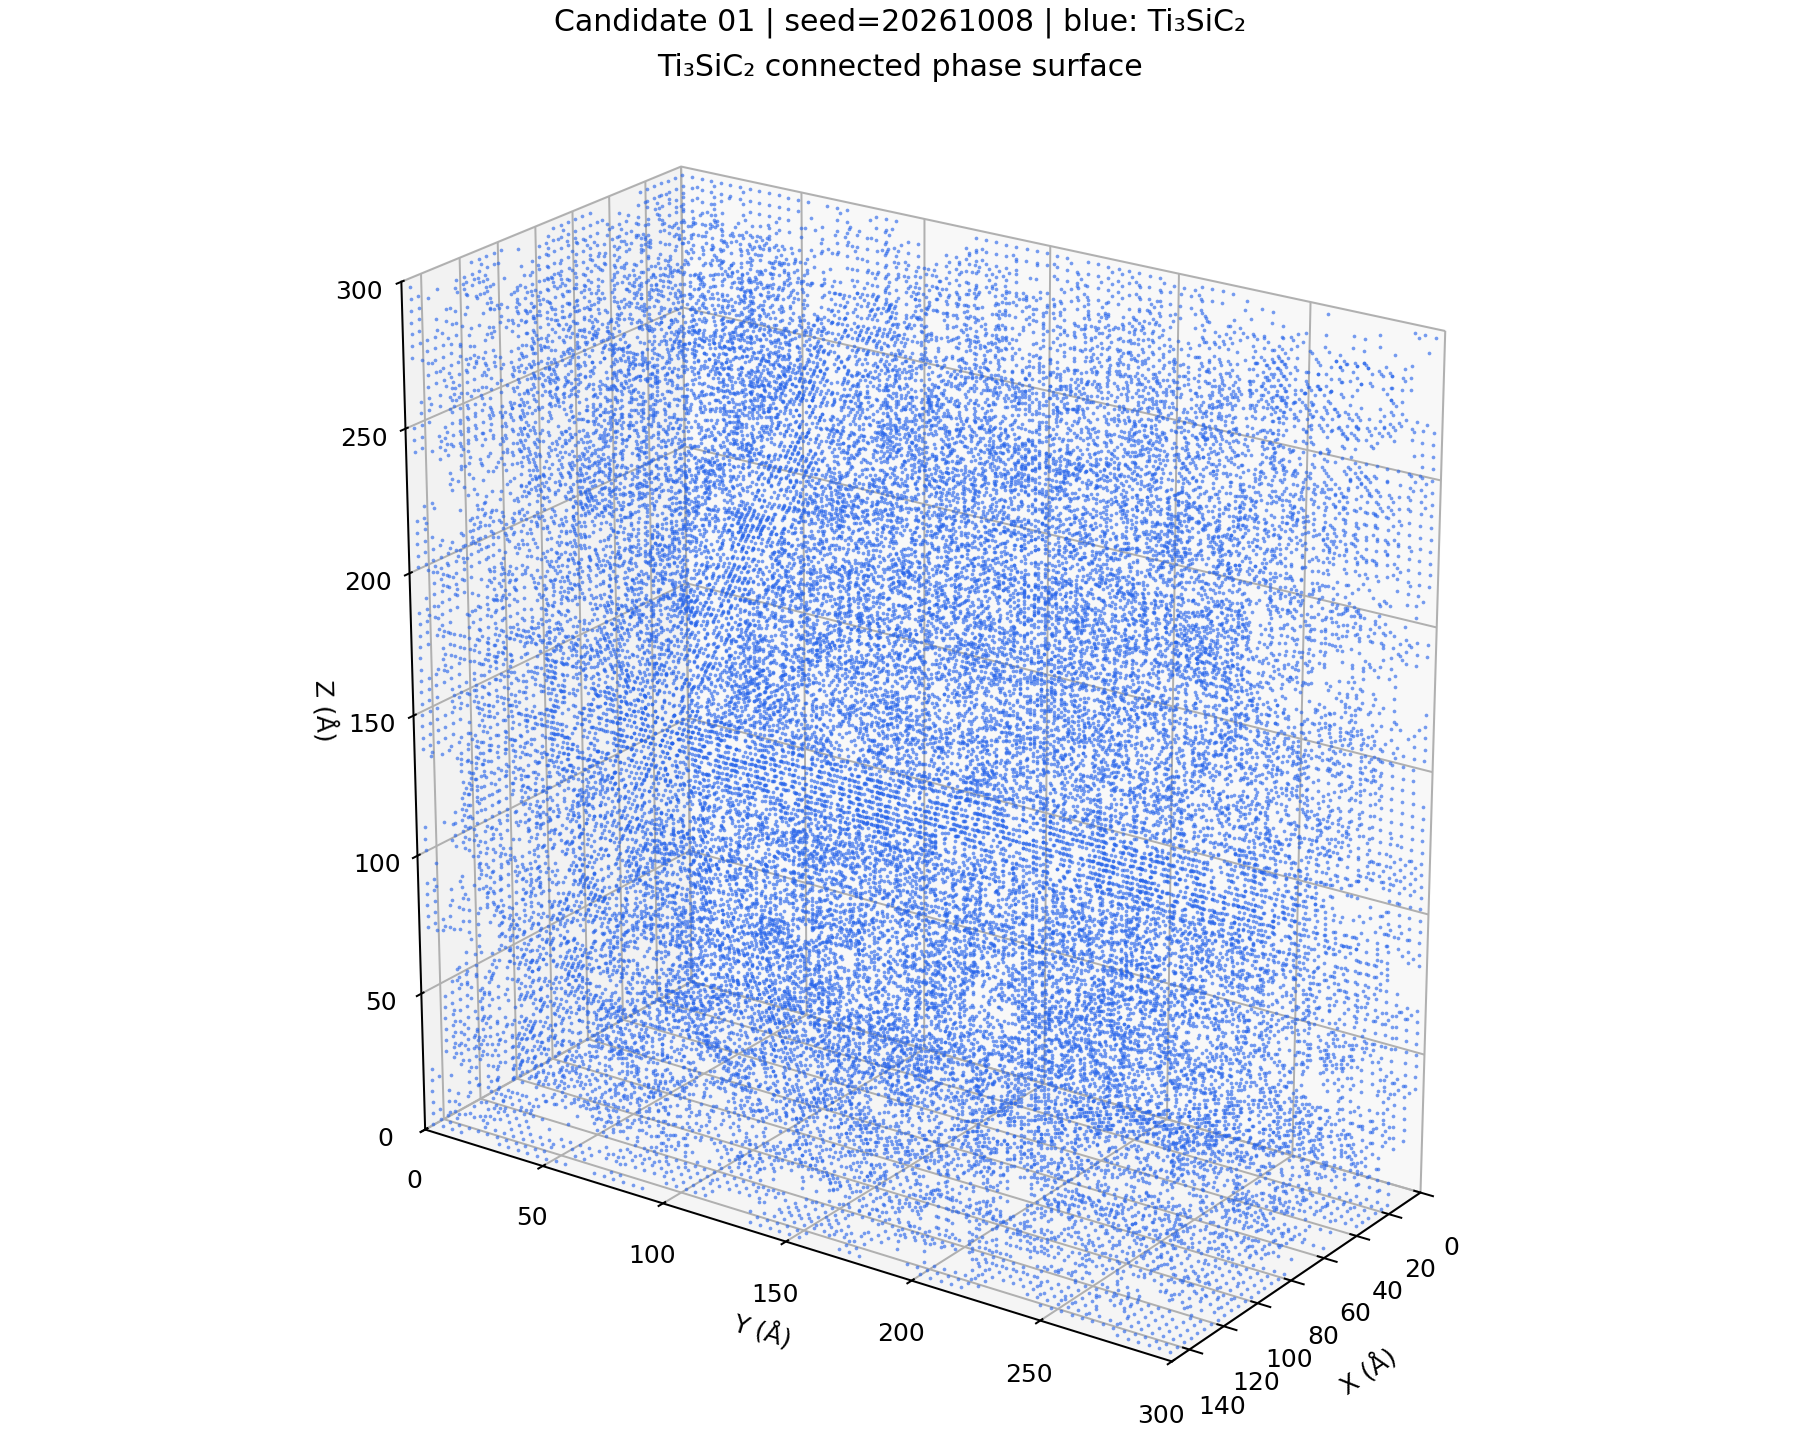
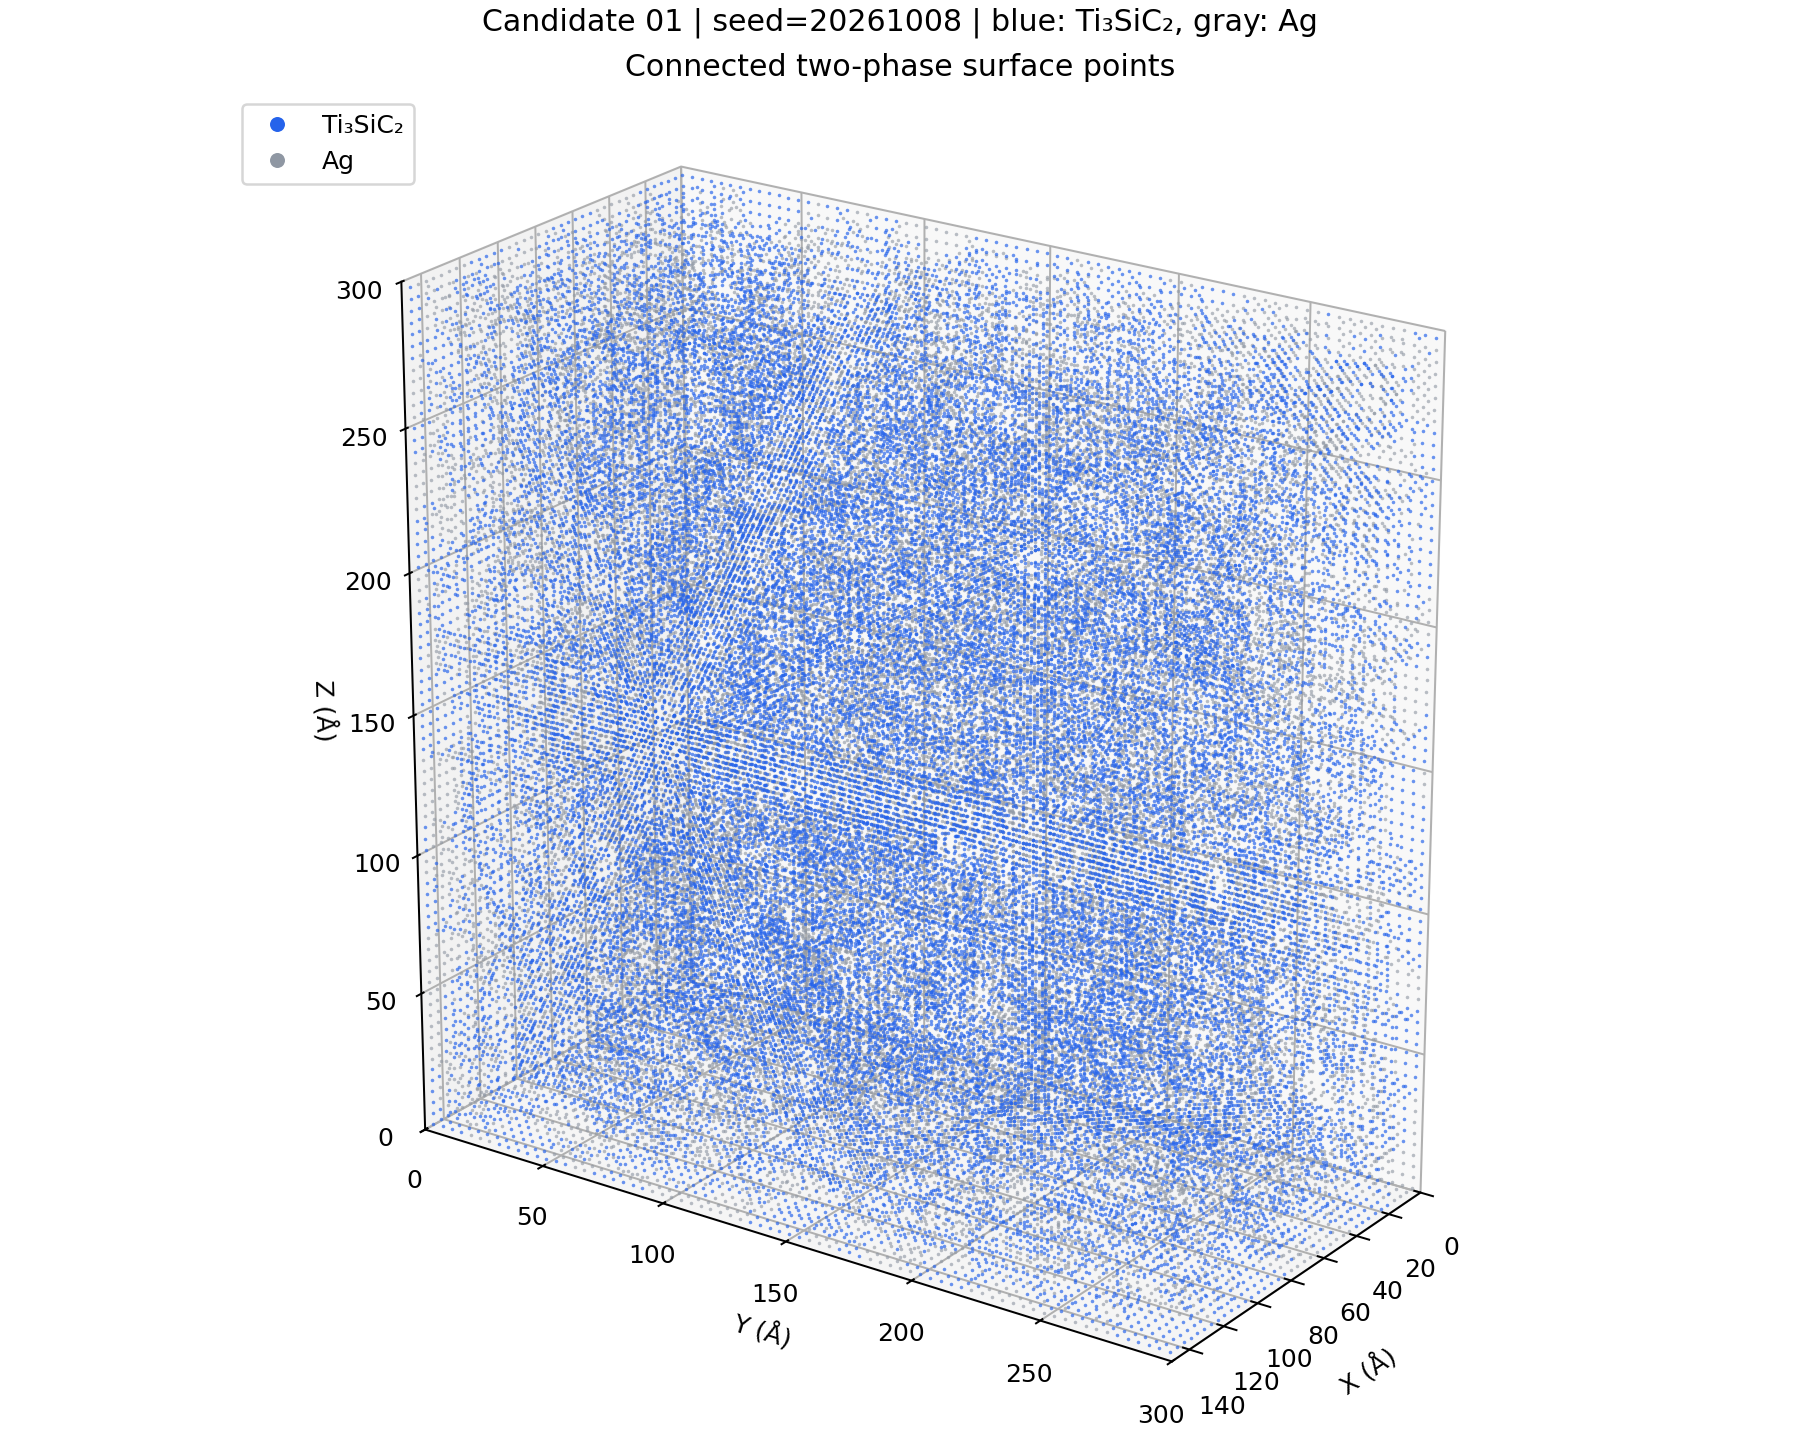
Render Ag phase in 3D candidate views

Changed region(s): [[0.2489, 0.1562, 0.7778, 0.9062], [0.28, 0.0, 0.7467, 0.0625], [0.1244, 0.0625, 0.2178, 0.125]]

diff --git a/phasefield_geometry_Ag_Ti3SiC2_300x300/generate_geometry.py b/phasefield_geometry_Ag_Ti3SiC2_300x300/generate_geometry.py
@@ -14,6 +14,7 @@ from pathlib import Path
 import matplotlib
 matplotlib.use("Agg")
 import matplotlib.pyplot as plt
+from matplotlib.lines import Line2D
 from matplotlib.colors import ListedColormap
 import numpy as np
 import scipy
@@ -111,16 +112,24 @@ def render_candidate(mask: np.ndarray, candidate_dir: Path, candidate_no: int, s
     colors = ListedColormap(["#d2d4d8", "#2563eb"])  # Ag, Ti3SiC2
     fig = plt.figure(figsize=(15, 10), constrained_layout=True)
     ax3 = fig.add_subplot(2, 2, 1, projection="3d")
-    surface = mask & ~ndi.binary_erosion(
-        mask, structure=ndi.generate_binary_structure(3, 1), border_value=0
-    )
     step = 2
-    sampled = surface[::step, ::step, ::step]
-    ix, iy, iz = np.nonzero(sampled)
-    ax3.scatter((ix + 0.5) * SPACING_A[0] * step,
-                (iy + 0.5) * SPACING_A[1] * step,
-                (iz + 0.5) * SPACING_A[2] * step,
-                c="#2563eb", s=1.8, alpha=0.7, linewidths=0, depthshade=False)
+    surface_structure = ndi.generate_binary_structure(3, 1)
+    tic_surface = mask & ~ndi.binary_erosion(mask, structure=surface_structure, border_value=0)
+    ag_mask = ~mask
+    ag_surface = ag_mask & ~ndi.binary_erosion(ag_mask, structure=surface_structure, border_value=0)
+    tic_ix, tic_iy, tic_iz = np.nonzero(tic_surface[::step, ::step, ::step])
+    ag_ix, ag_iy, ag_iz = np.nonzero(ag_surface[::step, ::step, ::step])
+
+    def scatter_phase_surface(ax, ix, iy, iz, color, size, alpha):
+        ax.scatter((ix + 0.5) * SPACING_A[0] * step,
+                   (iy + 0.5) * SPACING_A[1] * step,
+                   (iz + 0.5) * SPACING_A[2] * step,
+                   c=color, s=size, alpha=alpha, linewidths=0, depthshade=False)
+
+    # Draw Ti first and the more opaque gray Ag points last so both
+    # complementary phase boundaries remain legible in the static view.
+    scatter_phase_surface(ax3, tic_ix, tic_iy, tic_iz, "#2563eb", 1.8, 0.68)
+    scatter_phase_surface(ax3, ag_ix, ag_iy, ag_iz, "#8f97a3", 1.8, 0.62)
     ax3.set_xlim(0, LENGTHS_A[0])
     ax3.set_ylim(0, LENGTHS_A[1])
     ax3.set_zlim(0, LENGTHS_A[2])
@@ -129,7 +138,7 @@ def render_candidate(mask: np.ndarray, candidate_dir: Path, candidate_no: int, s
     ax3.set_ylabel("Y (Å)")
     ax3.set_zlabel("Z (Å)")
     ax3.view_init(elev=22, azim=35)
-    ax3.set_title("3D Ti₃SiC₂ connected morphology")
+    ax3.set_title("3D two-phase connected morphology")
 
     mx, my, mz = np.asarray(GRID) // 2
     panels = [
@@ -152,10 +161,8 @@ def render_candidate(mask: np.ndarray, candidate_dir: Path, candidate_no: int, s
     # Standalone 3D view for easier inspection than the four-panel summary.
     fig3 = plt.figure(figsize=(10, 8), constrained_layout=True)
     ax3 = fig3.add_subplot(1, 1, 1, projection="3d")
-    ax3.scatter((ix + 0.5) * SPACING_A[0] * step,
-                (iy + 0.5) * SPACING_A[1] * step,
-                (iz + 0.5) * SPACING_A[2] * step,
-                c="#2563eb", s=2.2, alpha=0.62, linewidths=0, depthshade=False)
+    scatter_phase_surface(ax3, tic_ix, tic_iy, tic_iz, "#2563eb", 2.0, 0.68)
+    scatter_phase_surface(ax3, ag_ix, ag_iy, ag_iz, "#8f97a3", 2.0, 0.62)
     ax3.set_xlim(0, LENGTHS_A[0])
     ax3.set_ylim(0, LENGTHS_A[1])
     ax3.set_zlim(0, LENGTHS_A[2])
@@ -164,8 +171,12 @@ def render_candidate(mask: np.ndarray, candidate_dir: Path, candidate_no: int, s
     ax3.set_ylabel("Y (Å)")
     ax3.set_zlabel("Z (Å)")
     ax3.view_init(elev=22, azim=35)
-    ax3.set_title("Ti₃SiC₂ connected phase surface")
-    fig3.suptitle(f"Candidate {candidate_no:02d} | seed={seed} | blue: Ti₃SiC₂")
+    ax3.set_title("Connected two-phase surface points")
+    ax3.legend(handles=[
+        Line2D([0], [0], marker="o", color="w", markerfacecolor="#2563eb", markersize=7, label="Ti₃SiC₂"),
+        Line2D([0], [0], marker="o", color="w", markerfacecolor="#8f97a3", markersize=7, label="Ag"),
+    ], loc="upper left")
+    fig3.suptitle(f"Candidate {candidate_no:02d} | seed={seed} | blue: Ti₃SiC₂, gray: Ag")
     fig3.savefig(candidate_dir / "geometry_3d_view.png", dpi=180)
     plt.close(fig3)
 

diff --git a/phasefield_geometry_Ag_Ti3SiC2_300x300/README.md b/phasefield_geometry_Ag_Ti3SiC2_300x300/README.md
@@ -13,4 +13,4 @@ XDG_CACHE_HOME=/workspace/.cache MPLCONFIGDIR=/workspace/.cache/matplotlib FONTC
   /workspace/.venvs/phasefield/bin/python generate_geometry.py
 ```
 
-Each `candidate_NN` directory includes `geometry_3d_view.png` (standalone 3D Ti₃SiC₂ surface), `morphology_reference_view_2d.png` (300 × 300 px, central YZ section), `geometry_preview.png` (3D view and three sections), `phase_masks_and_field.npz`, and `geometry_stats.json`. The masks define the phases; PNG colors are for visual review. `geometry_audit.md` records assumptions, volume conversion, connectivity, thickness proxies, and limitations.
+Each `candidate_NN` directory includes `geometry_3d_view.png` (standalone 3D view of both phase surfaces), `morphology_reference_view_2d.png` (300 × 300 px, central YZ section), `geometry_preview.png` (3D view and three sections), `phase_masks_and_field.npz`, and `geometry_stats.json`. The masks define the phases; PNG colors are for visual review. `geometry_audit.md` records assumptions, volume conversion, connectivity, thickness proxies, and limitations.

diff --git a/phasefield_geometry_Ag_Ti3SiC2_300x300/geometry_audit.md b/phasefield_geometry_Ag_Ti3SiC2_300x300/geometry_audit.md
@@ -20,7 +20,7 @@
 
 使用固定随机种子生成三维标准正态噪声，经高斯平滑（σ=1.7、2.7、2.7 个体素，约 3.36、5.4、5.4 Å）后，按排序阈值选取目标数量的 Ti₃SiC₂ 体素。σ 是几何尺度控制参数，不代表材料参数。边界采用反射平滑，模型不是周期边界。脚本可复现随机场与图像。
 
-`morphology_reference_view_2d.png` 为中央 YZ 切片，最近邻放大为 300×300 像素；蓝色 `#2563eb` 是 Ti₃SiC₂，浅灰 `#d2d4d8` 是 Ag。`geometry_3d_view.png` 是单独的 Ti₃SiC₂ 三维表面视图；`geometry_preview.png` 另含三维渲染及三个正交中心切片。
+`morphology_reference_view_2d.png` 为中央 YZ 切片，最近邻放大为 300×300 像素；蓝色 `#2563eb` 是 Ti₃SiC₂，浅灰 `#d2d4d8` 是 Ag。`geometry_3d_view.png` 和 `geometry_preview.png` 均绘出两个相区的表面采样点（Ti₃SiC₂ 蓝色 `#2563eb`，Ag 灰色 `#8f97a3`）；总览图还包含三个正交中心切片。
 
 ## 候选统计
 
